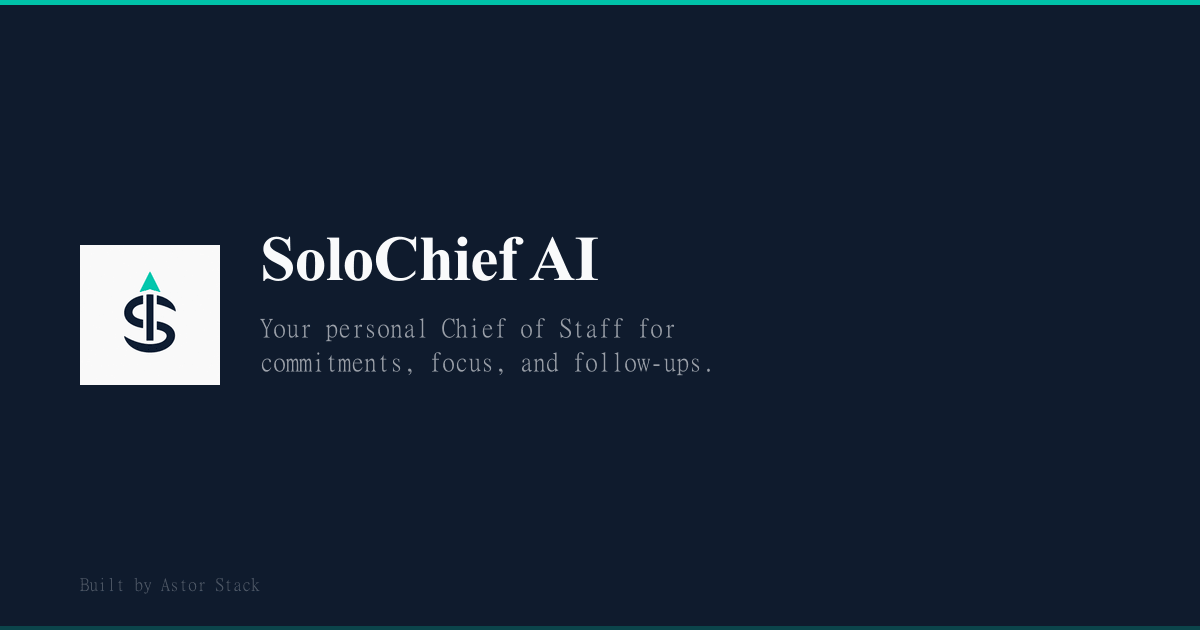
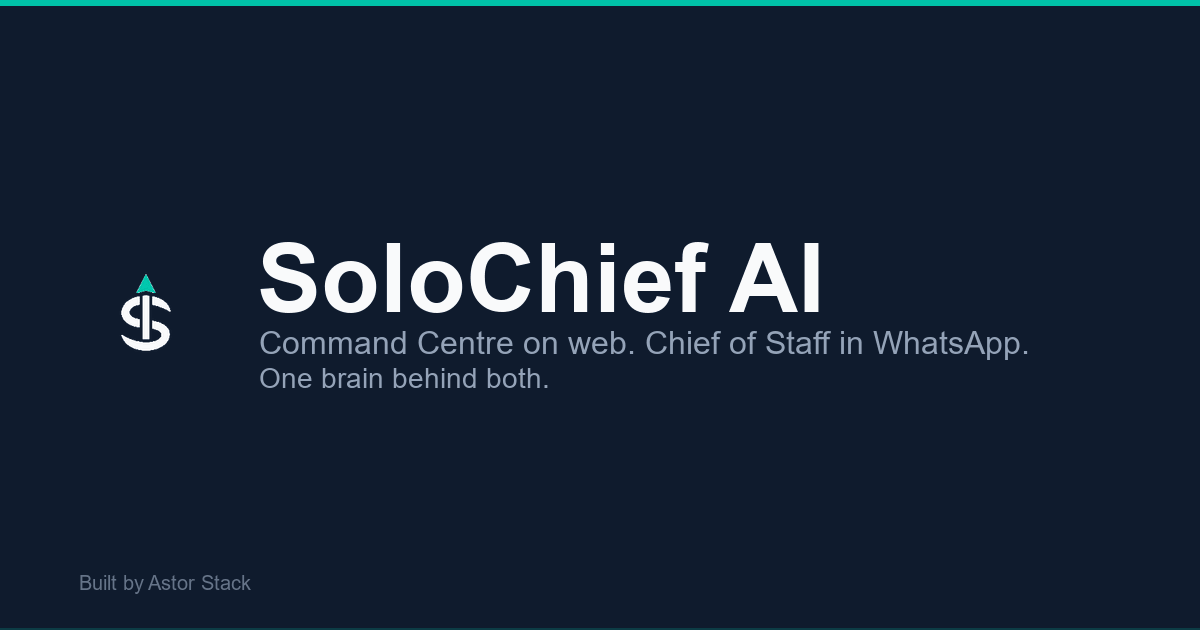
design: regenerate SoloChief social preview assets

diff --git a/DECISIONS.md b/DECISIONS.md
@@ -67,3 +67,4 @@ This file is append-only. Never edit existing entries.
 | D-063 | PWA icons corrected to use existing SoloChief brand assets. Temporary generated icons removed. Manifest references web-app-manifest-192x192.png and web-app-manifest-512x512.png (brand exports). public/apple-touch-icon.png replaced with the 38KB brand asset from public/icons/. public/favicon.ico added at root from brand favicon. | 2026-06-22    |
 | D-064 | SoloChief social preview images created using approved brand assets. public/og/solochief-og.png (1200×630), public/og/solochief-twitter.png (1200×630), public/og/solochief-square.png (1200×1200). Generated with scripts/generate-og.mjs using sharp + logo.png icon mark (1254×1254). Midnight background, teal accent, off-white text. | 2026-06-22    |
 | D-065 | Open Graph and Twitter Card metadata added to root layout. title: SoloChief AI, description: Your personal Chief of Staff..., url: https://solochief.app, OG image: /og/solochief-og.png, Twitter card: summary_large_image, Twitter image: /og/solochief-twitter.png. locale: en_GB. | 2026-06-22    |
+| D-066 | Social preview images regenerated using approved brand assets with corrected font rendering, transparent logo treatment, and improved composition. Switched from SVG text rendering (caused monospace font substitution on Windows) to sharp Pango text API with explicit Arial fontfile. White background stripped from icon via per-pixel luma masking; dark navy areas tinted to white for legibility on midnight background. Copy updated to: SoloChief AI / Command Centre on web. Chief of Staff in WhatsApp. One brain behind both. | 2026-06-22    |
